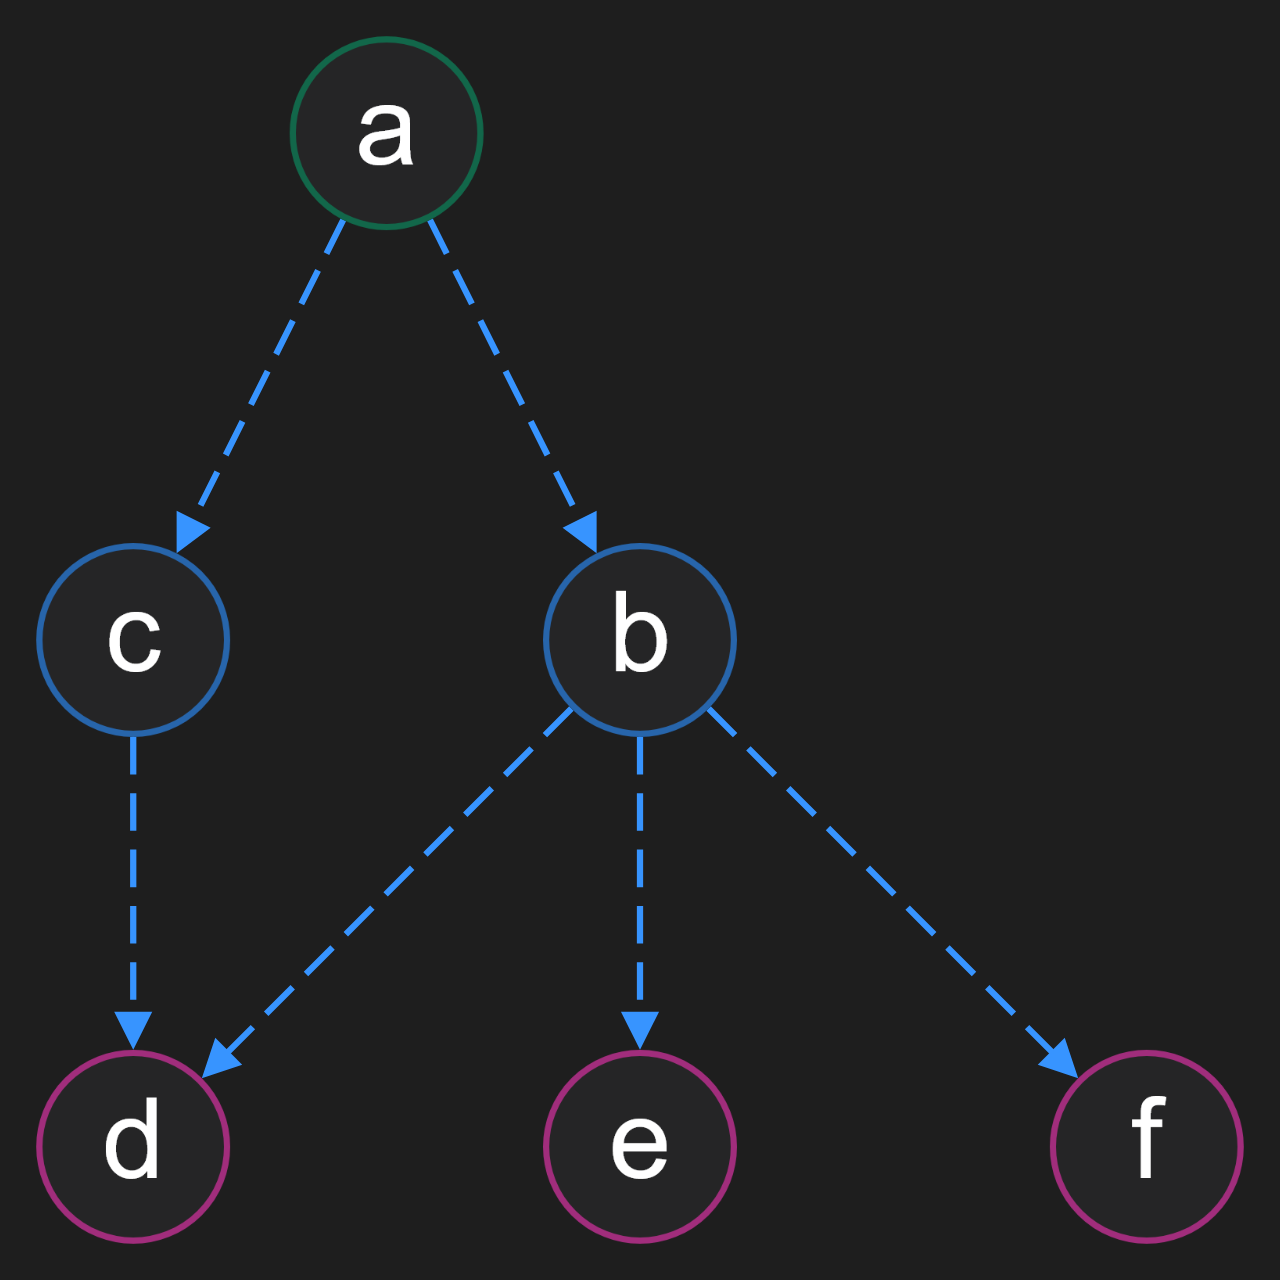
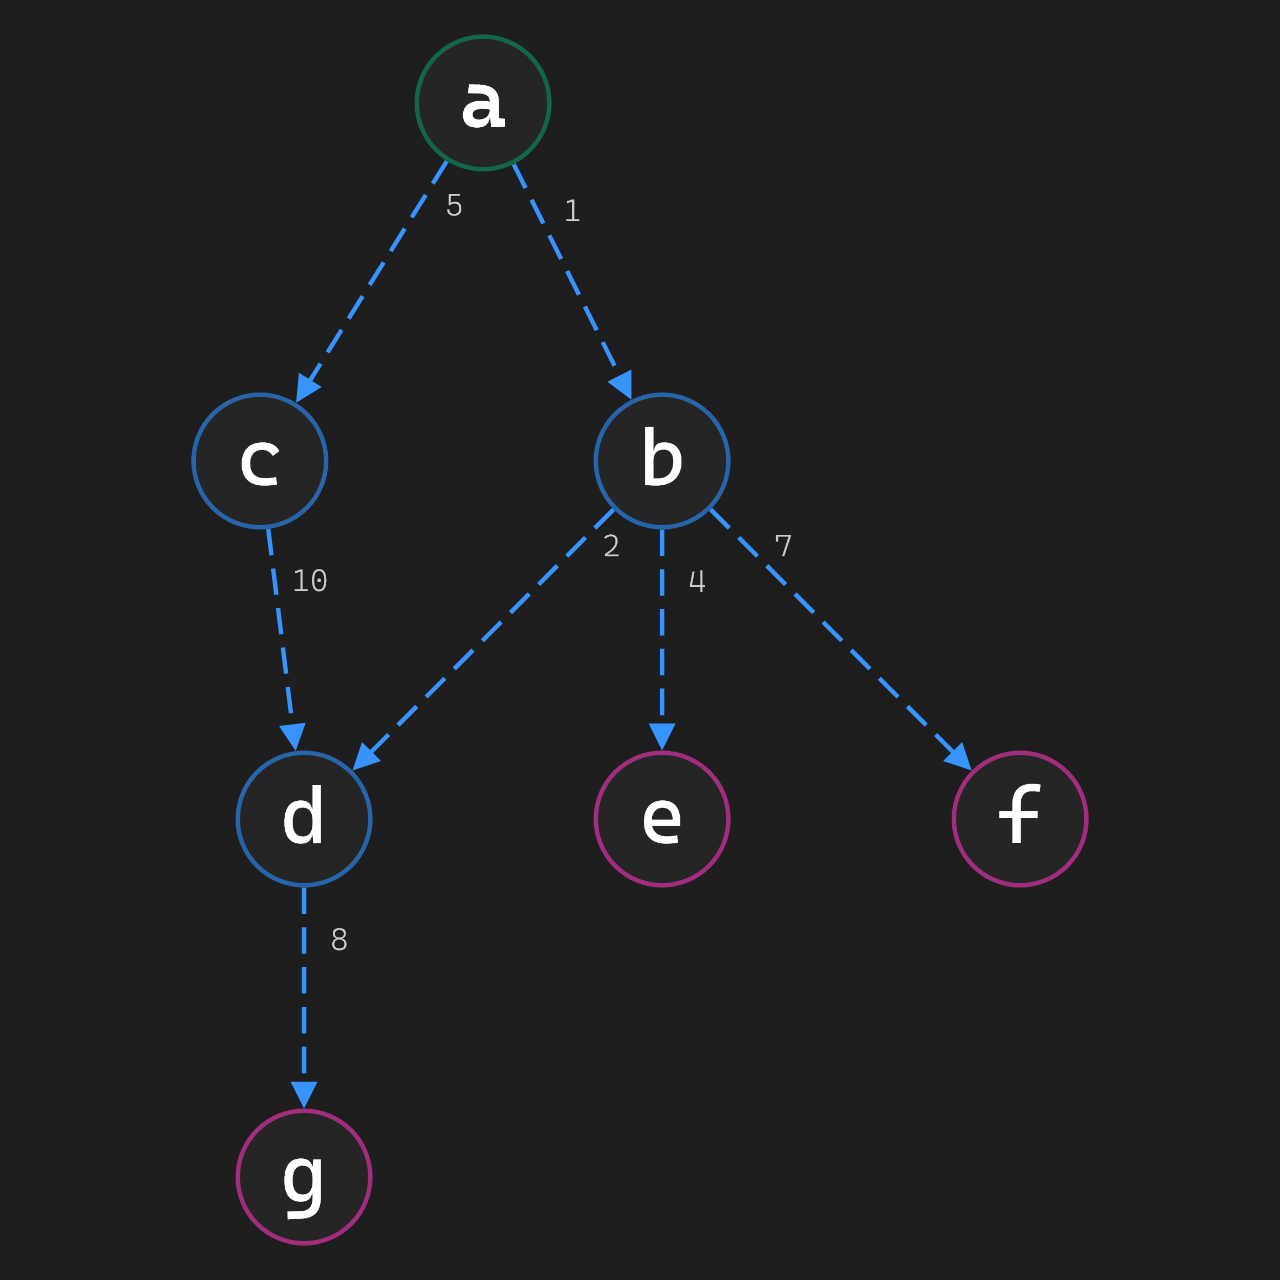
added weights and cascadia code font

diff --git a/src/graph-renderer.ts b/src/graph-renderer.ts
@@ -6,10 +6,6 @@ declare function require(name: string): any;
 const cytosnap = require('cytosnap');
 cytosnap.use(['cytoscape-dagre', 'cytoscape-klay']);
 
-// TODO add custom font (Cascadia is the vsccode default font)
-// TODO add edge cost/weight
-// TODO tests: image output file checksum?
-
 export class GraphRenderer {
     width: number = 800;
     height: number = 600;
@@ -39,7 +35,8 @@ export class GraphRenderer {
                 data: {
                     id: e.from.label + '-' + e.destination.label,
                     source: e.from.label,
-                    target: e.destination.label
+                    target: e.destination.label,
+                    weight: e.weight
                 }
             });
         });
@@ -71,9 +68,9 @@ export class GraphRenderer {
             {
                 selector: 'node',
                 style: {
-                    'font-family': 'Arial',
-                    'font-size': '18px',
-                    'font-weight': '400',
+                    'font-family': this.theme.node.fontFamily,
+                    'font-size': this.theme.node.fontSize,
+                    'font-weight': this.theme.node.fontWeight,
                     'label': 'data(id)',
                     'background-color': this.theme.node.backgroundColor,
                     'text-valign': 'center',
@@ -87,6 +84,9 @@ export class GraphRenderer {
             {
                 selector: 'node.root',
                 style: {
+                    'font-family': this.theme.rootNode.fontFamily,
+                    'font-size': this.theme.rootNode.fontSize,
+                    'font-weight': this.theme.rootNode.fontWeight,
                     'background-color': this.theme.rootNode.backgroundColor,
                     'border-color': this.theme.rootNode.borderColor,
                     'color': this.theme.rootNode.textColor,
@@ -95,6 +95,9 @@ export class GraphRenderer {
             {
                 selector: 'node.leaf',
                 style: {
+                    'font-family': this.theme.leafNode.fontFamily,
+                    'font-size': this.theme.leafNode.fontSize,
+                    'font-weight': this.theme.leafNode.fontWeight,
                     'background-color': this.theme.leafNode.backgroundColor,
                     'border-color': this.theme.leafNode.borderColor,
                     'color': this.theme.leafNode.textColor,
@@ -111,7 +114,14 @@ export class GraphRenderer {
                     'curve-style': 'bezier',
                     'arrow-scale': 0.7,
                     'target-arrow-shape': 'triangle',
-                    'target-arrow-color': this.theme.edge.arrowColor
+                    'target-arrow-color': this.theme.edge.arrowColor,
+                    'source-label': 'data(weight)',
+                    'source-text-margin-x': 8,
+                    'source-text-offset': 12,
+                    'font-family': this.theme.edge.fontFamily,
+                    'font-size': this.theme.edge.fontSize,
+                    'font-weight': this.theme.edge.fontWeight,
+                    'color': this.theme.edge.textColor,
                 }
             }
         ];

diff --git a/src/graph-renderer-themes.ts b/src/graph-renderer-themes.ts
@@ -9,34 +9,54 @@ export interface GraphRendererTheme {
 export interface GraphRendererEdgeTheme {
     lineColor: string;
     arrowColor: string;
+    textColor: string;
+    fontFamily: string;
+    fontSize: string;
+    fontWeight: string;
 }
 
 export interface GraphRendererNodeTheme {
     backgroundColor: string;
     borderColor: string;
     textColor: string;
+    fontFamily: string;
+    fontSize: string;
+    fontWeight: string;
 }
 
+const VSCODE_THEME_FONT = 'Cascadia Code';
 export const VSCODE_THEME = {
     backgroundColor: '#1e1e1e',
     node: {
         backgroundColor: '#252526',
         borderColor: '#2765ab',
         textColor: '#fff',
-        rootTextColor: '#16825d'
+        fontFamily: VSCODE_THEME_FONT,
+        fontSize: '18px',
+        fontWeight: '400',
     },
     rootNode: {
         backgroundColor: '#252526',
         borderColor: '#12674a',
         textColor: '#fff',
+        fontFamily: VSCODE_THEME_FONT,
+        fontSize: '18px',
+        fontWeight: '500',
     },
     leafNode: {
         backgroundColor: '#252526',
         borderColor: '#a12d7c',
         textColor: '#fff',
+        fontFamily: VSCODE_THEME_FONT,
+        fontSize: '18px',
+        fontWeight: '400',
     },
     edge: {
         lineColor: '#3794ff',
-        arrowColor: '#3794ff'
+        arrowColor: '#3794ff',
+        textColor: '#cccccc',
+        fontFamily: VSCODE_THEME_FONT,
+        fontSize: '7px',
+        fontWeight: '300',
     }
 } as GraphRendererTheme;

diff --git a/src/index.ts b/src/index.ts
@@ -4,6 +4,9 @@ import fs from "fs";
 import {VSCODE_THEME} from "./graph-renderer-themes";
 import {GraphRendererLayout} from "./graph-renderer-layout";
 
+// TODO add tests (e.g. image output file checksum)
+// TODO integrate with dlv answer set parser
+
 const renderer = new GraphRenderer();
 renderer.width = 1280;
 renderer.height = 1280;
@@ -24,13 +27,13 @@ const nodes: GraphNode[] = [
 ];
 
 const edges: GraphEdge[] = [
-    new GraphEdge(nodeA, nodeB),
-    new GraphEdge(nodeA, nodeC),
-    new GraphEdge(nodeB, nodeD),
-    new GraphEdge(nodeB, nodeE),
-    new GraphEdge(nodeB, nodeF),
-    new GraphEdge(nodeC, nodeD),
-    new GraphEdge(nodeD, nodeG)
+    new GraphEdge(nodeA, nodeB, "1"),
+    new GraphEdge(nodeA, nodeC, "5"),
+    new GraphEdge(nodeB, nodeD, "2"),
+    new GraphEdge(nodeB, nodeE, "4"),
+    new GraphEdge(nodeB, nodeF, "7"),
+    new GraphEdge(nodeC, nodeD, "10"),
+    new GraphEdge(nodeD, nodeG, "8")
 ];
 
 renderer.render(nodes, edges, (img: OnFinish) => {

diff --git a/src/graph-models.ts b/src/graph-models.ts
@@ -9,9 +9,11 @@ export class GraphNode {
 export class GraphEdge {
     readonly from: GraphNode;
     readonly destination: GraphNode;
+    readonly weight: string|null;
 
-    constructor(from: GraphNode, destination: GraphNode) {
+    constructor(from: GraphNode, destination: GraphNode, weight: string|null) {
         this.from = from;
         this.destination = destination;
+        this.weight = weight;
     }
 }
